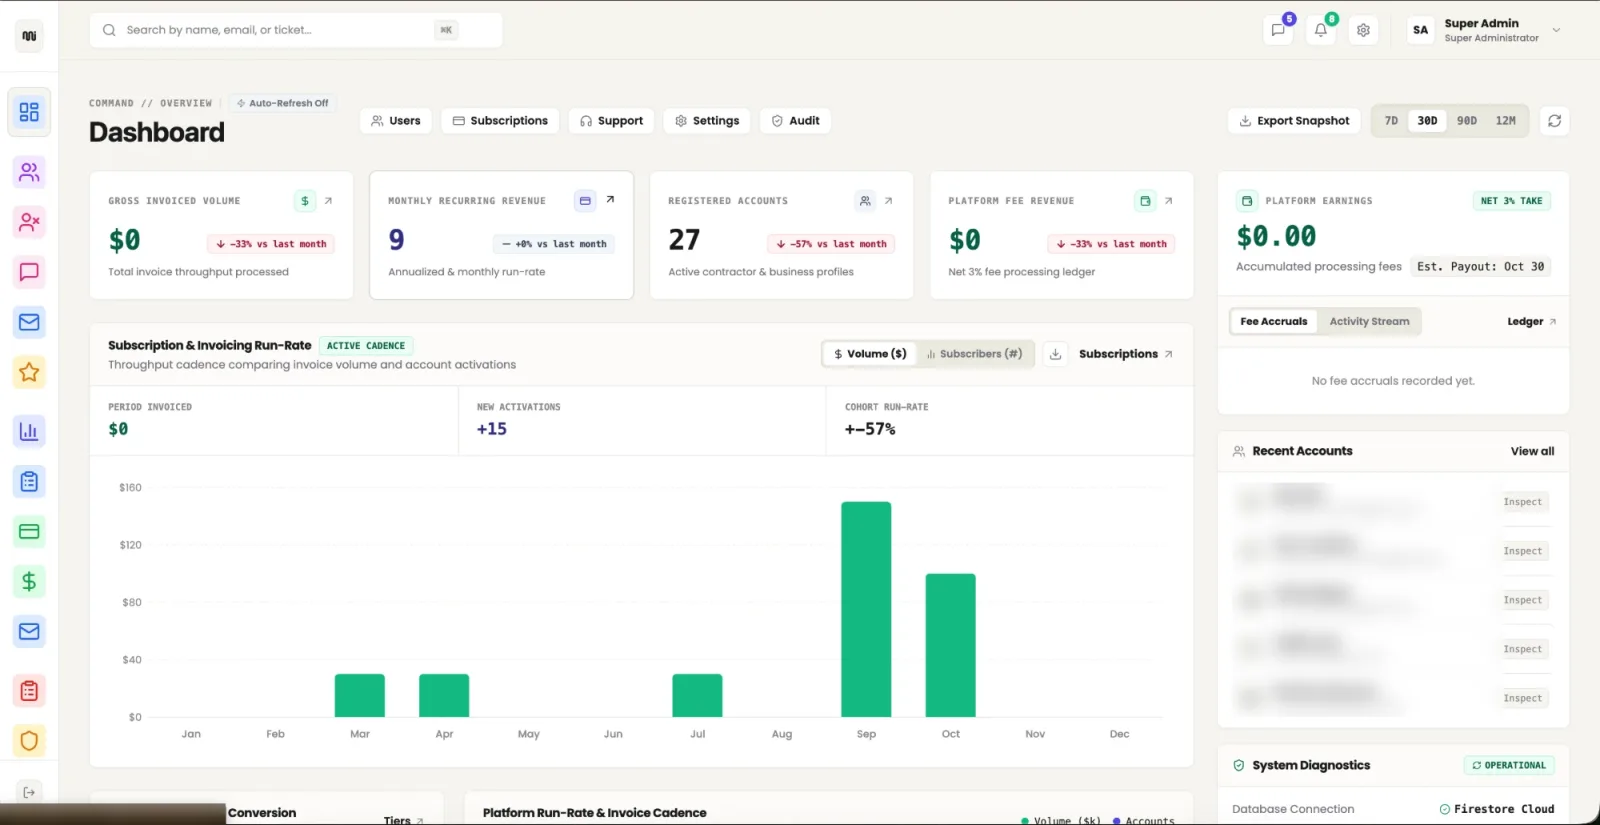
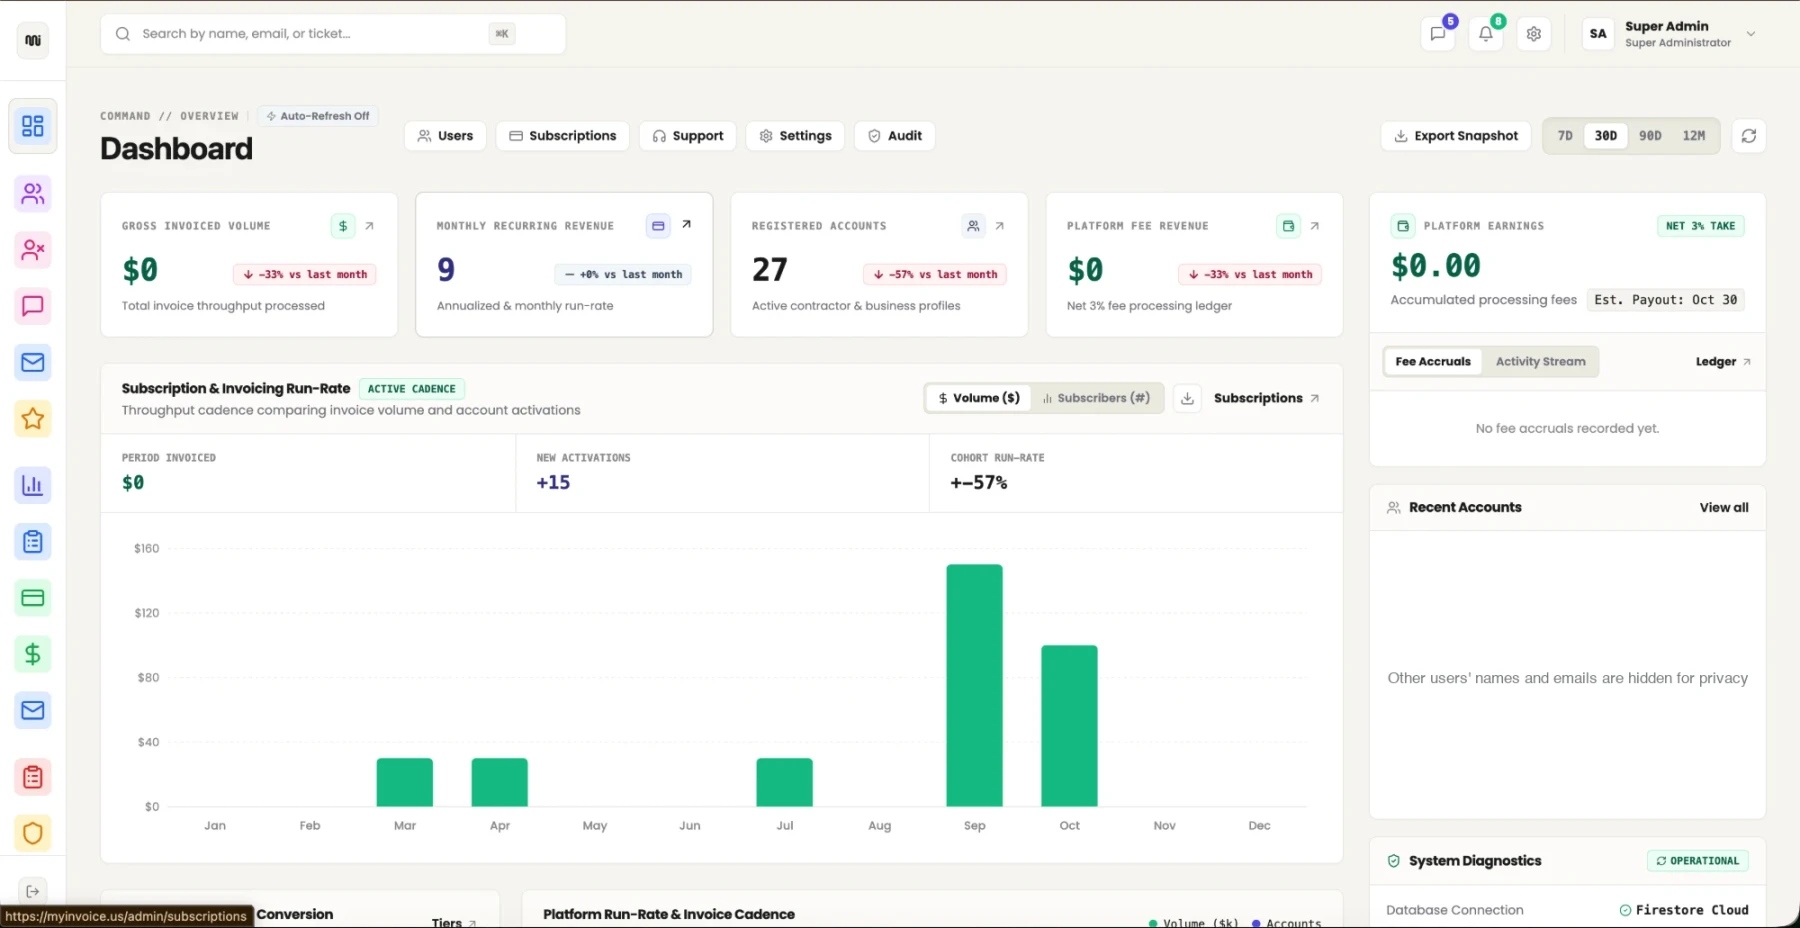
feat: compact screen showcase for web and admin screenshots, no blur, third-party account list hidden

diff --git a/src/styles/site.css b/src/styles/site.css
@@ -1431,12 +1431,33 @@ body:has(dialog[open]) { overflow: hidden; }
 .bwin__bar span { flex: 1; max-width: 340px; margin-left: 14px; padding: 4px 14px; border-radius: 999px; background: #fff; font-family: var(--font-mono); font-size: 11px; letter-spacing: 0.04em; color: var(--gray-600); overflow: hidden; text-overflow: ellipsis; white-space: nowrap; }
 .bwin img { display: block; width: 100%; height: auto; }
 .cs-intro { max-width: 70ch; margin-top: 14px; font-size: 16px; line-height: 1.7; color: var(--gray-600); }
-.cs-gal { display: grid; grid-template-columns: repeat(2, minmax(0, 1fr)); gap: clamp(20px, 3vw, 36px) clamp(16px, 2.4vw, 28px); margin-top: clamp(24px, 3vw, 40px); }
-.cs-gal__item { margin: 0; }
-.cs-gal__item--lead { grid-column: 1 / -1; }
-.cs-gal__btn { position: relative; display: block; width: 100%; padding: 0; border: 0; background: none; cursor: zoom-in; text-align: left; }
-.cs-gal__btn:hover .bwin { transform: translateY(-6px); box-shadow: 0 40px 70px -34px #00302ccc; }
-.cs-gal__btn:hover .lp-shot__zoom, .cs-gal__btn:focus-visible .lp-shot__zoom { opacity: 1; background: var(--orange-500); color: #1a0f02; }
-.cs-gal__btn .lp-shot__zoom { right: 14px; bottom: 14px; }
-.cs-gal figcaption { margin-top: 12px; font-size: 14px; line-height: 1.5; color: var(--gray-600); }
-@media (max-width: 760px) { .cs-gal { grid-template-columns: minmax(0, 1fr); } .bwin__bar span { max-width: none; } }
+
+/* screen showcase: a browser window plus a selector */
+.cs-show { display: grid; grid-template-columns: minmax(0, 1.5fr) minmax(0, 1fr); gap: clamp(20px, 3vw, 44px); align-items: center; margin-top: clamp(24px, 3vw, 40px); }
+.cs-show__stage { display: grid; min-width: 0; }
+.cs-show__shot { grid-area: 1 / 1; margin: 0; visibility: hidden; opacity: 0; transform: translateY(10px) scale(0.985); transition: opacity 0.35s ease, transform 0.5s var(--ease-out), visibility 0s 0.35s; }
+.cs-show__shot[data-active] { visibility: visible; opacity: 1; transform: none; transition: opacity 0.4s ease 0.05s, transform 0.55s var(--ease-out) 0.05s, visibility 0s; }
+.cs-show__btn { position: relative; display: block; width: 100%; padding: 0; border: 0; background: none; cursor: zoom-in; text-align: left; }
+.cs-show__btn:hover .bwin { transform: translateY(-4px); box-shadow: 0 40px 70px -34px #00302ccc; }
+.cs-show__hint { position: absolute; right: 14px; bottom: 14px; display: inline-flex; align-items: center; gap: 6px; padding: 7px 12px; border-radius: 99px; background: #0b1f1cd9; color: var(--text-on-dark); font-size: 12.5px; font-weight: 600; opacity: 0.9; transition: opacity 0.3s, background-color 0.3s, color 0.3s; backdrop-filter: blur(6px); }
+.cs-show__btn:hover .cs-show__hint, .cs-show__btn:focus-visible .cs-show__hint { background: var(--orange-500); color: #1a0f02; }
+.cs-show__tabs { display: grid; gap: 10px; }
+.cs-show__tab { display: flex; align-items: flex-start; gap: 16px; width: 100%; padding: 16px 18px; border: 1px solid var(--line-light); border-radius: 18px; background: #fff; text-align: left; cursor: pointer; transition: transform 0.4s var(--ease-out), border-color 0.3s, box-shadow 0.4s, background-color 0.3s; }
+.cs-show__n { flex: none; margin-top: 2px; font-family: var(--font-mono); font-size: 12px; letter-spacing: 0.16em; color: var(--gray-500); transition: color 0.3s; }
+.cs-show__tab b { display: block; font-family: var(--font-display); font-size: 1.1rem; font-weight: 650; letter-spacing: -0.02em; color: var(--teal-800); }
+.cs-show__tab small { display: block; margin-top: 4px; font-size: 13.5px; line-height: 1.5; color: var(--gray-600); }
+.cs-show__tab:hover { border-color: color-mix(in srgb, var(--orange-500) 45%, transparent); }
+.cs-show__tab[aria-selected="true"] { border-color: var(--orange-500); background: linear-gradient(100deg, #f67f0014, #fff 70%); box-shadow: 0 18px 34px -26px #f67f00cc; transform: translateX(6px); }
+.cs-show__tab[aria-selected="true"] .cs-show__n { color: var(--orange-ink); }
+.cs-show__tab:focus-visible { outline: 2px solid var(--orange-500); outline-offset: 3px; }
+@media (max-width: 900px) {
+  .cs-show { grid-template-columns: minmax(0, 1fr); }
+  .cs-show__tab[aria-selected="true"] { transform: none; }
+  .cs-show__tab small { display: none; }
+  .cs-show__tab { align-items: center; padding: 12px 14px; }
+  .cs-show__tabs { grid-template-columns: repeat(3, minmax(0, 1fr)); }
+  .cs-show__tab { flex-direction: column; gap: 4px; text-align: center; align-items: center; }
+  .cs-show__tab { padding: 12px 6px; min-width: 0; }
+  .cs-show__tab b { font-size: 0.85rem; overflow-wrap: anywhere; line-height: 1.2; }
+}
+@media (prefers-reduced-motion: reduce) { .cs-show__shot { transition: none; } }

diff --git a/src/data/caseStudies.ts b/src/data/caseStudies.ts
@@ -14,7 +14,7 @@ export type CaseStudy = {
   archTitle: [string, string]; // plain part, serif part
   platforms: { title: string; text: string }[];
   features: string[];
-  galleries?: { id: string; eyebrow: string; title: [string, string]; intro: string; url: string; images: { src: string; label: string }[] }[]; // wide browser screenshots
+  galleries?: { id: string; eyebrow: string; title: [string, string]; intro: string; url: string; images: { src: string; label: string; title: string }[] }[]; // wide browser screenshots
   decisionsTitle: [string, string];
   decisions: { title: string; text: string }[];
   stack: string[]; // names from data/tech.ts
@@ -64,24 +64,24 @@ export const caseStudies: CaseStudy[] = [
         id: "web",
         eyebrow: "Web app",
         title: ["The web app", "in use"],
-        intro: "The browser version of the same account: a dashboard for quick actions, overdue work, recent invoices and upcoming installments, a step-by-step invoice builder with a live summary, and business settings. Personal details are blurred.",
+        intro: "The browser version of the same account: a dashboard for quick actions, overdue work, recent invoices and upcoming installments, a step-by-step invoice builder with a live summary, and business settings.",
         url: "myinvoice.us",
         images: [
-          { src: "/projects/my-invoice-web-1.webp", label: "Web dashboard with quick actions, recent activity, payment watch and work calendar" },
-          { src: "/projects/my-invoice-web-2.webp", label: "Create invoice with a live summary, optional project, notes and deposit schedule" },
-          { src: "/projects/my-invoice-web-3.webp", label: "Business information, payment details, items, scanned receipts, templates and settings" },
+          { src: "/projects/my-invoice-web-1.webp", title: "Dashboard", label: "Web dashboard with quick actions, recent activity, payment watch and work calendar" },
+          { src: "/projects/my-invoice-web-2.webp", title: "Create invoice", label: "Create invoice with a live summary, optional project, notes and deposit schedule" },
+          { src: "/projects/my-invoice-web-3.webp", title: "Business settings", label: "Business information, payment details, items, scanned receipts, templates and settings" },
         ],
       },
       {
         id: "admin",
         eyebrow: "Admin dashboard",
         title: ["The admin dashboard", "in use"],
-        intro: "A separate dashboard for operators with revenue and account metrics, payment analytics by gateway and period, and an infrastructure view of Cloud Functions, scheduled jobs, error logs, storage and billing guardrails. Account details are blurred.",
+        intro: "A separate dashboard for operators with revenue and account metrics, payment analytics by gateway and period, and an infrastructure view of Cloud Functions, scheduled jobs, error logs, storage and billing guardrails. Other users' names and emails are hidden for privacy.",
         url: "myinvoice.us/admin",
         images: [
-          { src: "/projects/my-invoice-admin-1.webp", label: "Admin overview with volume, recurring revenue, accounts, fees and recent accounts" },
-          { src: "/projects/my-invoice-admin-2.webp", label: "Payment analytics with volume over time, payment methods and settlement health" },
-          { src: "/projects/my-invoice-admin-3.webp", label: "Infrastructure view of Cloud Functions, scheduler jobs, error logs and indexes" },
+          { src: "/projects/my-invoice-admin-1.webp", title: "Overview", label: "Admin overview with volume, recurring revenue, accounts, fees and recent accounts" },
+          { src: "/projects/my-invoice-admin-2.webp", title: "Payment analytics", label: "Payment analytics with volume over time, payment methods and settlement health" },
+          { src: "/projects/my-invoice-admin-3.webp", title: "Infrastructure", label: "Infrastructure view of Cloud Functions, scheduler jobs, error logs and indexes" },
         ],
       },
     ],

diff --git a/src/components/page/ScreenShowcase.tsx b/src/components/page/ScreenShowcase.tsx
@@ -1,0 +1,66 @@
+import { useRef, useState } from "react";
+import type { KeyboardEvent } from "react";
+import { Maximize2 } from "lucide-react";
+import { BrowserFrame } from "../BrowserFrame";
+
+type Props = {
+  project: string;
+  kind: string;
+  url: string;
+  images: { src: string; label: string; title: string }[];
+  onExpand: (i: number) => void;
+};
+
+// One browser window at a comfortable size, with a selector for the other screens.
+// Every window stays in the page (only the active one is visible) so the images and captions remain crawlable.
+export function ScreenShowcase({ project, kind, url, images, onExpand }: Props) {
+  const [active, setActive] = useState(0);
+  const tabs = useRef<(HTMLButtonElement | null)[]>([]);
+
+  const onKey = (e: KeyboardEvent) => {
+    const d = e.key === "ArrowDown" || e.key === "ArrowRight" ? 1 : e.key === "ArrowUp" || e.key === "ArrowLeft" ? -1 : 0;
+    if (!d) return;
+    e.preventDefault();
+    const i = (active + d + images.length) % images.length;
+    setActive(i);
+    tabs.current[i]?.focus();
+  };
+
+  return (
+    <div className="cs-show">
+      <div className="cs-show__stage">
+        {images.map((im, i) => (
+          <figure key={im.src} className="cs-show__shot" data-active={i === active ? "" : undefined} aria-hidden={i !== active}>
+            <button type="button" className="cs-show__btn" tabIndex={i === active ? 0 : -1} onClick={() => onExpand(i)} aria-label={`Enlarge: ${im.label}`}>
+              <BrowserFrame src={im.src} alt={`${project} ${kind.toLowerCase()}: ${im.label}`} url={url} />
+              <span className="cs-show__hint"><Maximize2 size={15} aria-hidden="true" /> Enlarge</span>
+            </button>
+          </figure>
+        ))}
+      </div>
+      <div className="cs-show__tabs" role="tablist" aria-label={`${kind} screens`} onKeyDown={onKey}>
+        {images.map((im, i) => (
+          <button
+            key={im.src}
+            ref={(el) => {
+              tabs.current[i] = el;
+            }}
+            type="button"
+            role="tab"
+            aria-selected={i === active}
+            tabIndex={i === active ? 0 : -1}
+            className="cs-show__tab"
+            onClick={() => setActive(i)}
+            onPointerEnter={(e) => e.pointerType === "mouse" && setActive(i)}
+          >
+            <span className="cs-show__n">{String(i + 1).padStart(2, "0")}</span>
+            <span>
+              <b>{im.title}</b>
+              <small>{im.label}</small>
+            </span>
+          </button>
+        ))}
+      </div>
+    </div>
+  );
+}

diff --git a/src/components/page/CaseStudyPage.tsx b/src/components/page/CaseStudyPage.tsx
@@ -17,6 +17,7 @@ import { FaqAccordion } from "./FaqAccordion";
 import { IncludeCards } from "./IncludeCards";
 import { PageHero } from "./PageHero";
 import { PageShell } from "./PageShell";
+import { ScreenShowcase } from "./ScreenShowcase";
 
 export function CaseStudyPage({ study }: { study: CaseStudy }) {
   const p = projects.find((x) => x.title === study.project)!;
@@ -93,17 +94,7 @@ export function CaseStudyPage({ study }: { study: CaseStudy }) {
             <p className="eyebrow reveal">{g.eyebrow}</p>
             <h2 id={`gal-${g.id}`} className="work__title reveal">{g.title[0]} <span className="serif">{g.title[1]}</span></h2>
             <p className="cs-intro reveal">{g.intro}</p>
-            <div className="cs-gal">
-              {g.images.map((im, i) => (
-                <figure key={im.src} className={`cs-gal__item reveal${i === 0 ? " cs-gal__item--lead" : ""}`} style={{ ["--d" as string]: `${i * 0.08}s` }}>
-                  <button type="button" className="cs-gal__btn" onClick={() => setGview({ g: gi, i })} aria-label={`Enlarge: ${im.label}`}>
-                    <BrowserFrame src={im.src} alt={`${p.title} ${g.eyebrow.toLowerCase()}: ${im.label}`} url={g.url} />
-                    <span className="lp-shot__zoom"><Maximize2 size={16} aria-hidden="true" /></span>
-                  </button>
-                  <figcaption>{im.label}</figcaption>
-                </figure>
-              ))}
-            </div>
+            <ScreenShowcase project={p.title} kind={g.eyebrow} url={g.url} images={g.images} onExpand={(i) => setGview({ g: gi, i })} />
           </div>
         </section>
       ))}

diff --git a/src/components/BrowserFrame.tsx b/src/components/BrowserFrame.tsx
@@ -10,7 +10,7 @@ export function BrowserFrame({ src, alt, url, onClick }: Props) {
         <i /><i /><i />
         <span>{url}</span>
       </span>
-      <img src={src} alt={alt} width={1600} height={824} loading="lazy" decoding="async" />
+      <img src={src} alt={alt} width={1800} height={927} loading="lazy" decoding="async" />
     </span>
   );
 }
